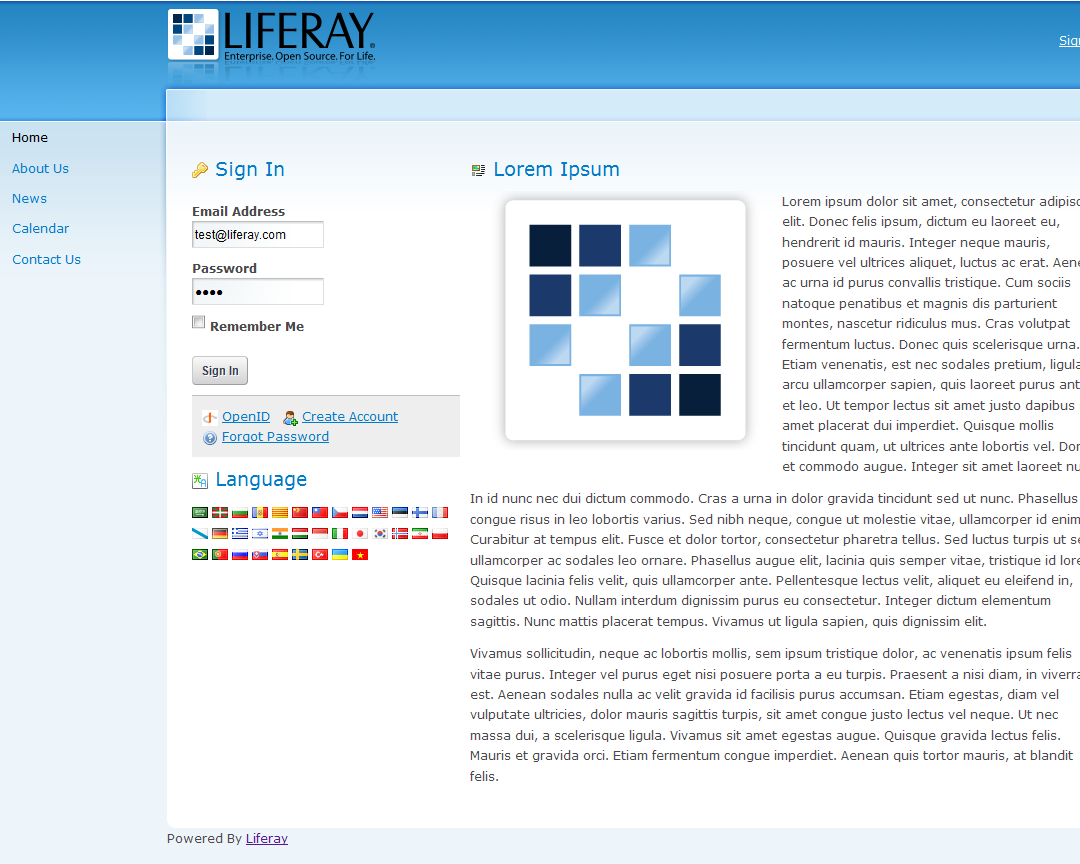
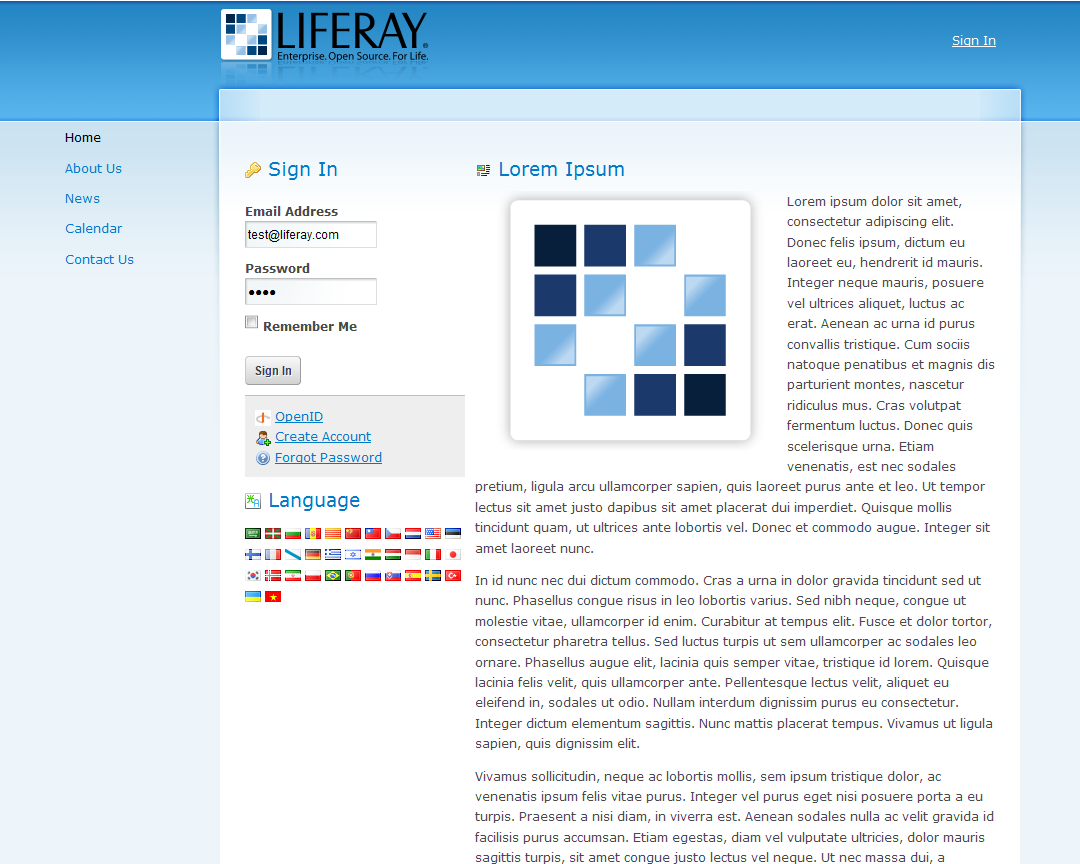
Drupal Garland theme
git-svn-id: svn://svn.liferay.com/repos/public/plugins/trunk@58126 05bdf26c-840f-0410-9ced-eb539d925f36

diff --git a/themes/drupal-garland-theme/docroot/_diffs/css/custom.css b/themes/drupal-garland-theme/docroot/_diffs/css/custom.css
@@ -31,7 +31,7 @@ body {
 	margin: 0 auto;
 	padding: 0 7px;
 	position: relative;
-	width: 960px;
+	width: 800px;
 }
 
 #skip-to-content,
